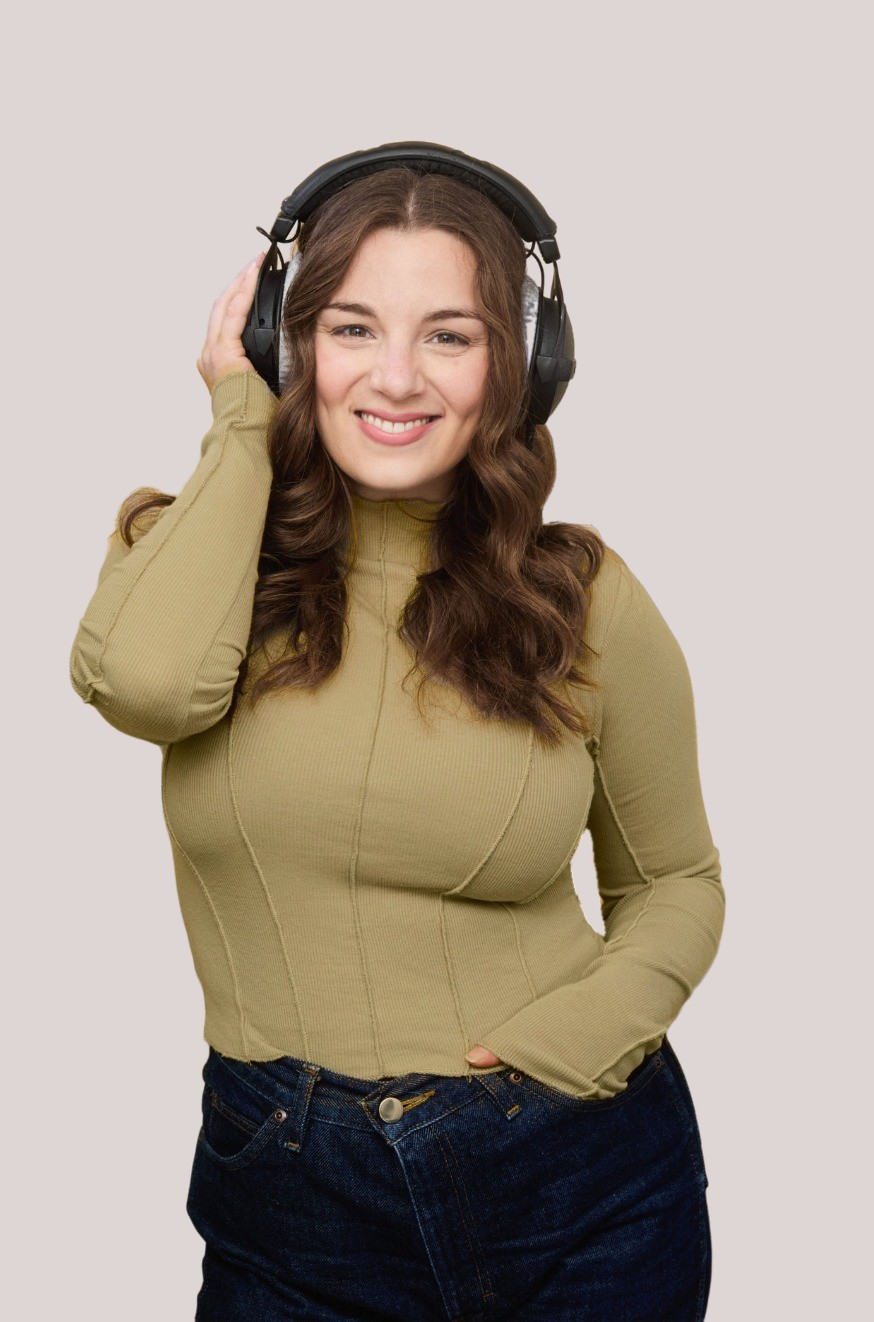
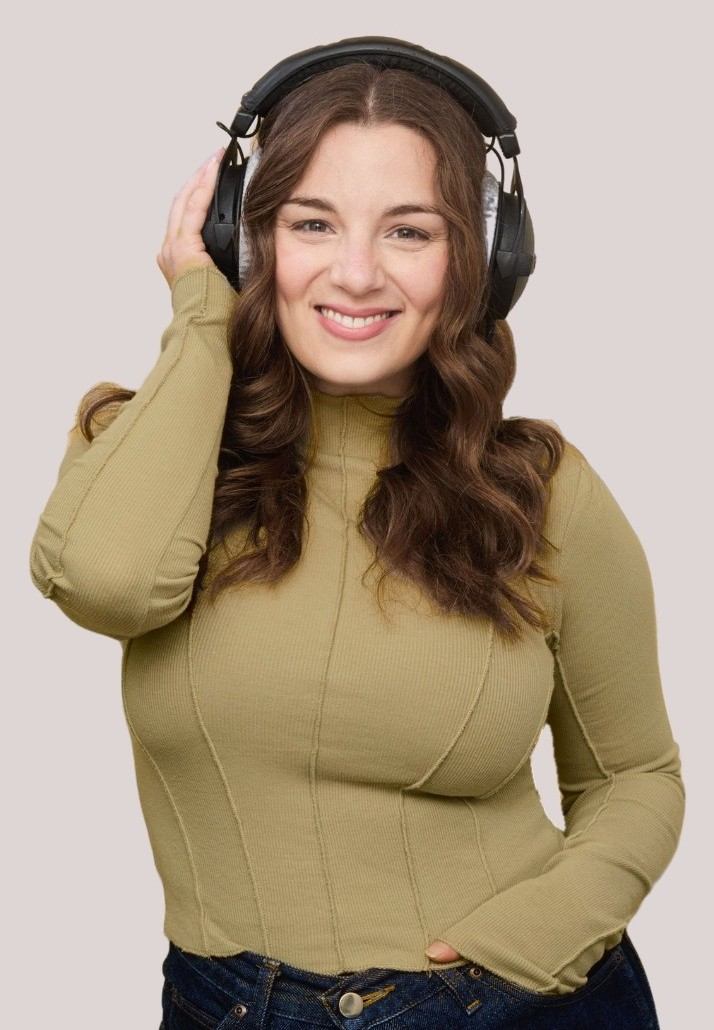
Fill out the hero: tighter photo crop and larger name
The hero photo is cropped close to Taryn (less empty backdrop above
and to the sides, ending at the hip where the fade sits), widened to
620px and aligned toward the page edge. The name grows to up to
9.25rem and the intro text is slightly larger.

Claude-Session: https://claude.ai/code/session_01RtomENzaRN8Pg18ejQ3pW1

diff --git a/taryn-site/site.css b/taryn-site/site.css
@@ -203,32 +203,32 @@ body.theme-vo .site-footer{display:none;}
   gap:1.5rem 2.5rem;
   padding-top:.5rem;
 }
-.vo-hero-lead{flex:1 1 440px;min-width:0;padding-bottom:5rem;}
+.vo-hero-lead{flex:1 1 460px;min-width:0;padding-bottom:4rem;}
 .vo-kicker + .vo-hero-name{margin-top:1.25rem;}
 .vo-hero-name{
   font-family:var(--serif);
-  font-size:clamp(3.5rem,8vw,7rem);
+  font-size:clamp(3.75rem,9.5vw,9.25rem);
   line-height:.95;
   letter-spacing:-.01em;
   margin-bottom:1.75rem;
 }
 .vo-hero-desc{
-  font-size:1.25rem;
+  font-size:1.35rem;
   line-height:1.55;
-  max-width:30ch;
+  max-width:32ch;
   color:var(--ink-soft);
   margin-bottom:2.25rem;
 }
 .vo-cta{display:flex;flex-wrap:wrap;gap:.9rem;}
 .vo-langs{margin-top:2.5rem;font-size:15px;font-weight:600;letter-spacing:.04em;}
 .vo-langs span{color:var(--accent);}
-.vo-hero-photo{flex:1 1 480px;min-width:0;display:flex;justify-content:center;}
+.vo-hero-photo{flex:1 1 480px;min-width:0;display:flex;justify-content:flex-end;}
 .vo-hero-photo img{
   width:100%;
-  max-width:560px;
+  max-width:620px;
   height:auto;
-  -webkit-mask-image:linear-gradient(to bottom,#000 0%,#000 70%,rgba(0,0,0,.6) 84%,rgba(0,0,0,0) 100%);
-  mask-image:linear-gradient(to bottom,#000 0%,#000 70%,rgba(0,0,0,.6) 84%,rgba(0,0,0,0) 100%);
+  -webkit-mask-image:linear-gradient(to bottom,#000 0%,#000 78%,rgba(0,0,0,.6) 90%,rgba(0,0,0,0) 100%);
+  mask-image:linear-gradient(to bottom,#000 0%,#000 78%,rgba(0,0,0,.6) 90%,rgba(0,0,0,0) 100%);
 }
 
 /* ---------- genres band ---------- */
@@ -484,6 +484,7 @@ body.theme-vo .site-footer{display:none;}
   .vo-hero{padding-top:1rem;}
   .vo-hero-lead{padding-bottom:1rem;}
   .vo-hero-desc{font-size:1.1rem;}
+  .vo-hero-photo{justify-content:center;}
   .vo-hero-photo img{max-width:360px;}
   .vo-card{padding:1.5rem;}
   .vo-form-row{grid-template-columns:1fr;}

diff --git a/index.html b/index.html
@@ -50,7 +50,7 @@
       <p class="vo-langs">English <span>·</span> Français</p>
     </div>
     <div class="vo-hero-photo">
-      <img src="taryn-site/photos/studio-headphones.jpg" alt="Taryn Wichenko smiling in studio headphones" width="874" height="1322">
+      <img src="taryn-site/photos/studio-headphones.jpg" alt="Taryn Wichenko smiling in studio headphones" width="714" height="1030">
     </div>
   </section>
 
